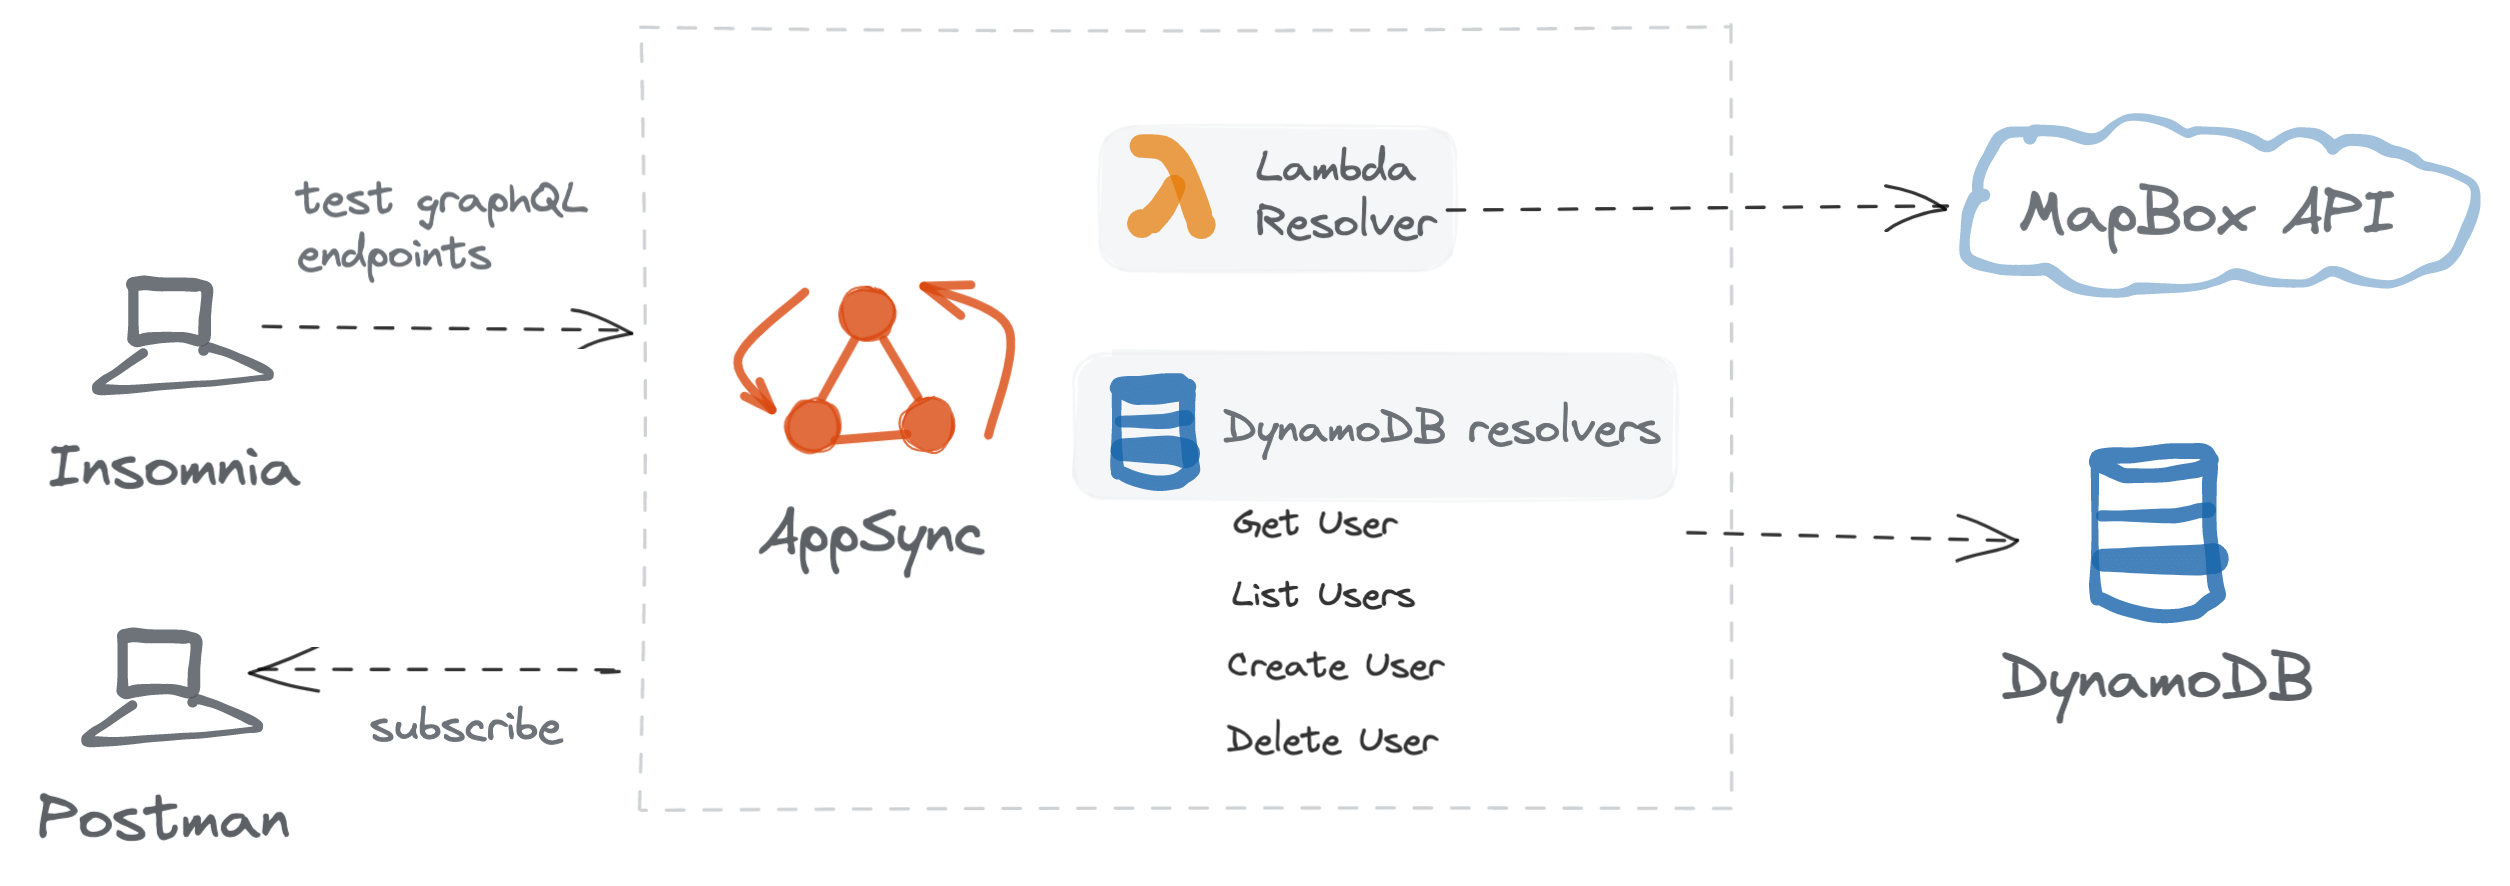
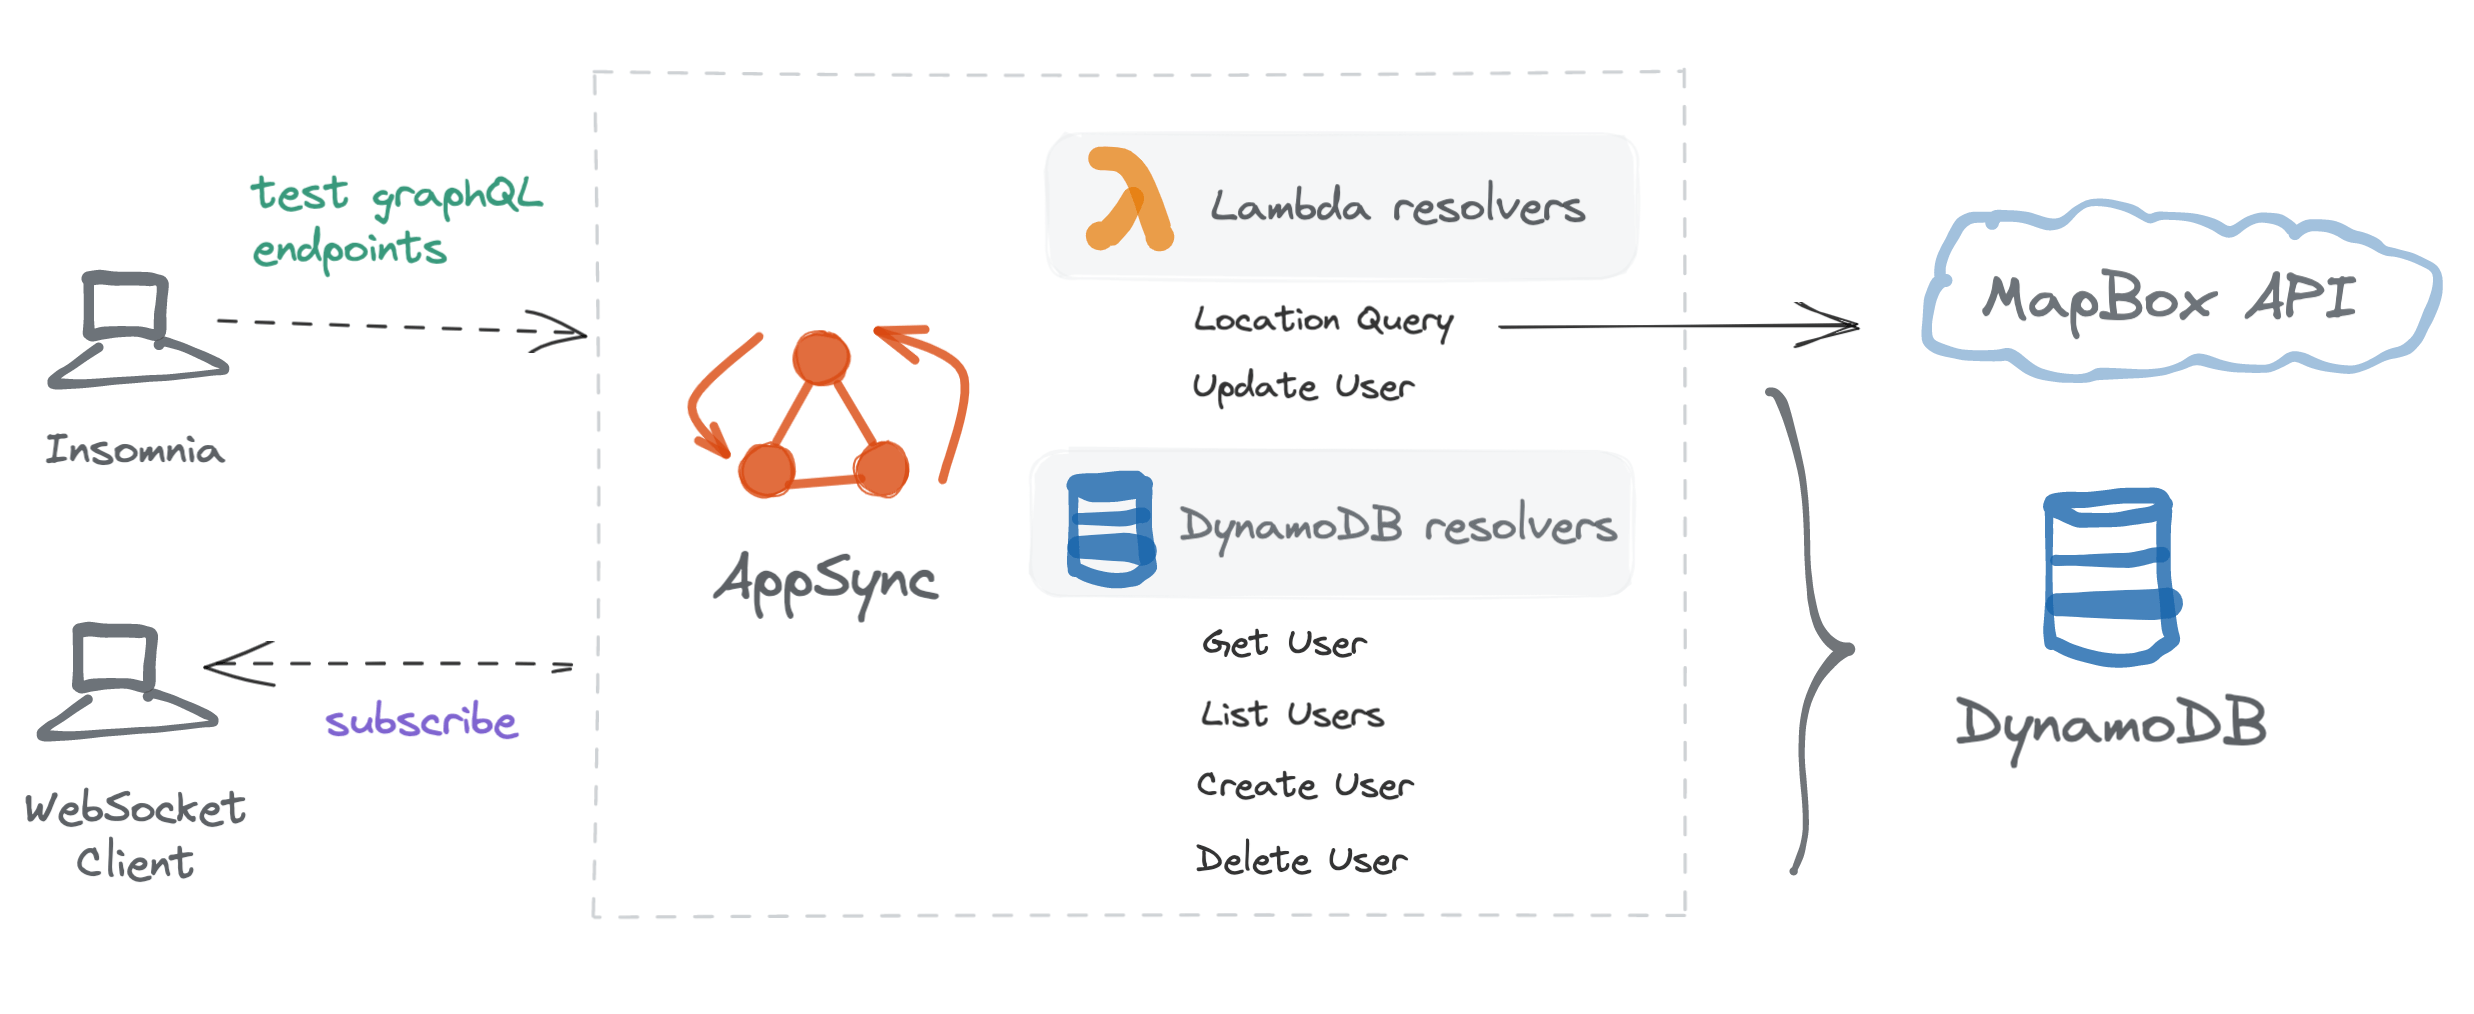
feat: add updateUser mutation

diff --git a/lib/api-stack.ts b/lib/api-stack.ts
@@ -13,42 +13,7 @@ export class ApiStack extends cdk.Stack {
   constructor(scope: Construct, id: string, props?: cdk.StackProps) {
     super(scope, id, props)
 
-    // Schema.fromAsset() from CDK v1 is no longer available in v2 🤷♂
-    const schema = readFileSync(join(__dirname, '..', 'src', 'graphql', 'schema.graphql')).toString()
-
-    const nodeJsFunctionProps: NodejsFunctionProps = {
-      bundling: {
-        externalModules: [
-          'aws-sdk', // Use the 'aws-sdk' available in the Lambda runtime
-        ],
-      },
-      depsLockFilePath: join(__dirname, '..', 'src', 'lambdas', 'package-lock.json'),
-      runtime: Runtime.NODEJS_14_X,
-    }
-
-    const getLocationLambda = new NodejsFunction(this, 'getLocationFunction', {
-      entry: join(__dirname, '..', 'src', 'lambdas', 'get-location.ts'),
-      environment: {
-        MAPBOX_API_TOKEN: process.env.MAPBOX_API_TOKEN || '',
-        MAPBOX_API_BASE_URL: process.env.MAPBOX_API_BASE_URL || 'https://api.mapbox.com/geocoding/v5/mapbox.places',
-      },
-      ...nodeJsFunctionProps,
-    })
-
-    const usersGraphQLApi = new CfnGraphQLApi(this, 'UsersApi', {
-      name: 'users-api',
-      authenticationType: 'API_KEY',
-    })
-
-    new CfnApiKey(this, 'UsersApiKey', {
-      apiId: usersGraphQLApi.attrApiId,
-    })
-
-    const apiSchema = new CfnGraphQLSchema(this, 'UsersSchema', {
-      apiId: usersGraphQLApi.attrApiId,
-      definition: schema,
-    })
-    // TODO Add updateUser schema and resolver
+    // DynamoDB Users Table
 
     const usersTable = new Table(this, 'UsersTable', {
       tableName: 'users',
@@ -72,11 +37,63 @@ export class ApiStack extends cdk.Stack {
 
     usersTableRole.addManagedPolicy(ManagedPolicy.fromAwsManagedPolicyName('AmazonDynamoDBFullAccess'))
 
+    // Lambda Functions
+
+    const nodeJsFunctionProps: NodejsFunctionProps = {
+      bundling: {
+        externalModules: [
+          'aws-sdk', // Use the 'aws-sdk' available in the Lambda runtime
+        ],
+      },
+      depsLockFilePath: join(__dirname, '..', 'src', 'lambdas', 'package-lock.json'),
+      runtime: Runtime.NODEJS_14_X,
+    }
+
+    const getLocationLambda = new NodejsFunction(this, 'getLocationFunction', {
+      entry: join(__dirname, '..', 'src', 'lambdas', 'get-location.ts'),
+      environment: {
+        MAPBOX_API_TOKEN: process.env.MAPBOX_API_TOKEN || '',
+        MAPBOX_API_BASE_URL: process.env.MAPBOX_API_BASE_URL || 'https://api.mapbox.com/geocoding/v5/mapbox.places',
+      },
+      ...nodeJsFunctionProps,
+    })
+
+    const updateUserLambda = new NodejsFunction(this, 'updateUserFunction', {
+      entry: join(__dirname, '..', 'src', 'lambdas', 'user-update.ts'),
+      environment: {
+        TABLE_NAME: usersTable.tableName,
+        PRIMARY_KEY: 'id',
+      },
+      ...nodeJsFunctionProps,
+    })
+
+    // Grant the lambda function access to the users table
+    usersTable.grantReadWriteData(updateUserLambda)
+
     const lambdaRole = new Role(this, 'LambdaRole', {
       assumedBy: new ServicePrincipal('appsync.amazonaws.com'),
     })
 
     lambdaRole.addManagedPolicy(ManagedPolicy.fromAwsManagedPolicyName('AWSLambda_FullAccess'))
+
+    // AppSync GraphQL Api
+
+    const usersGraphQLApi = new CfnGraphQLApi(this, 'UsersApi', {
+      name: 'users-api',
+      authenticationType: 'API_KEY',
+    })
+
+    new CfnApiKey(this, 'UsersApiKey', {
+      apiId: usersGraphQLApi.attrApiId,
+    })
+
+    // Schema.fromAsset() from CDK v1 is no longer available in v2 🤷♂
+    const schema = readFileSync(join(__dirname, '..', 'src', 'graphql', 'schema.graphql')).toString()
+
+    const apiSchema = new CfnGraphQLSchema(this, 'UsersSchema', {
+      apiId: usersGraphQLApi.attrApiId,
+      definition: schema,
+    })
 
     // Data Sources
 
@@ -97,6 +114,16 @@ export class ApiStack extends cdk.Stack {
       type: 'AWS_LAMBDA',
       lambdaConfig: {
         lambdaFunctionArn: getLocationLambda.functionArn,
+      },
+      serviceRoleArn: lambdaRole.roleArn,
+    })
+
+    const dataSourceUpdateUserLambda = new CfnDataSource(this, 'UpdateUserDataSource', {
+      apiId: usersGraphQLApi.attrApiId,
+      name: 'UpdateUserLambdaDataSource',
+      type: 'AWS_LAMBDA',
+      lambdaConfig: {
+        lambdaFunctionArn: updateUserLambda.functionArn,
       },
       serviceRoleArn: lambdaRole.roleArn,
     })
@@ -166,6 +193,14 @@ export class ApiStack extends cdk.Stack {
       responseMappingTemplate: `$util.toJson($ctx.result)`,
     })
     createUserResolver.addDependsOn(apiSchema)
+
+    const updateUserResolver = new CfnResolver(this, 'UpdateMutationResolver', {
+      apiId: usersGraphQLApi.attrApiId,
+      typeName: 'Mutation',
+      fieldName: 'updateUser',
+      dataSourceName: dataSourceUpdateUserLambda.name,
+    })
+    updateUserResolver.addDependsOn(apiSchema)
 
     const deleteUserResolver = new CfnResolver(this, 'DeleteMutationResolver', {
       apiId: usersGraphQLApi.attrApiId,

diff --git a/src/lambdas/user-update.ts b/src/lambdas/user-update.ts
@@ -1,0 +1,56 @@
+import * as AWS from 'aws-sdk'
+
+const TABLE_NAME = process.env.TABLE_NAME || ''
+const PRIMARY_KEY = process.env.PRIMARY_KEY || ''
+
+const RESERVED_RESPONSE = `Error: You're using AWS reserved keywords as attributes`,
+  DYNAMODB_EXECUTION_ERROR = `Error: Execution update, caused a Dynamodb error, please take a look at your CloudWatch Logs.`
+
+const db = new AWS.DynamoDB.DocumentClient()
+
+export const handler = async (event: any = {}): Promise<any> => {
+  const editedUser: any =
+    typeof event.arguments?.user == 'object' ? event.arguments.user : JSON.parse(event.arguments.user)
+
+  const userId = event.arguments?.user?.id
+  if (!userId) {
+    return { statusCode: 400, body: 'invalid request, you are missing the user.id argument' }
+  }
+
+  delete editedUser.id
+  let editedUserProps = Object.keys(editedUser)
+  if (!editedUser || editedUserProps.length < 1) {
+    return { statusCode: 400, body: 'invalid request, no arguments provided' }
+  }
+
+  const firstProperty = editedUserProps.splice(0, 1)
+  const params: any = {
+    TableName: TABLE_NAME,
+    Key: {
+      [PRIMARY_KEY]: userId,
+    },
+    UpdateExpression: `set ${firstProperty} = :${firstProperty}`,
+    ExpressionAttributeValues: {},
+    ReturnValues: 'UPDATED_NEW',
+  }
+  params.ExpressionAttributeValues[`:${firstProperty}`] = editedUser[`${firstProperty}`]
+
+  // TODO timestamp updatedAt
+
+  editedUserProps.forEach((property) => {
+    params.UpdateExpression += `, ${property} = :${property}`
+    params.ExpressionAttributeValues[`:${property}`] = editedUser[property]
+  })
+
+  try {
+    await db.update(params).promise()
+    // TODO Get updated user from DB, the mutation might ask for other properties
+    return { statusCode: 204, user: event.arguments.user }
+  } catch (dbError: any) {
+    const errorResponse =
+      dbError.code === 'ValidationException' && dbError.message.includes('reserved keyword')
+        ? RESERVED_RESPONSE
+        : DYNAMODB_EXECUTION_ERROR
+    return { statusCode: 500, body: errorResponse, error: dbError.message }
+  }
+}
